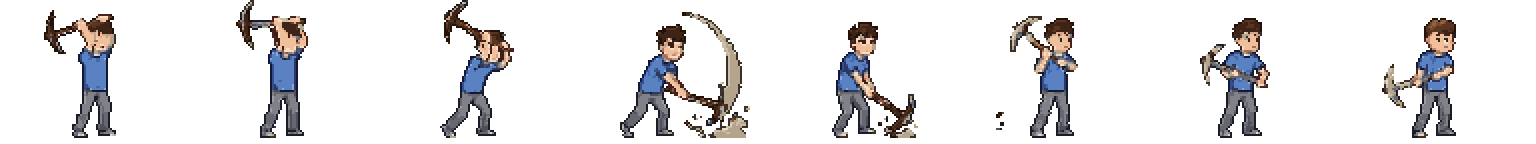
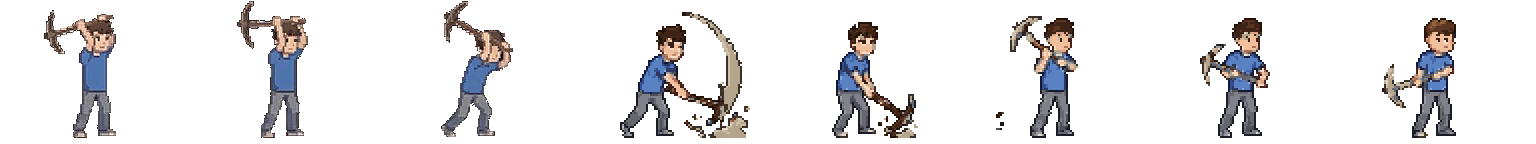
Замах кирки с руками над головой — авторские кадры без каймы: перерисовка теряла лицо
dig_pick и dig_pick_rusty, кадры 0–2: рука поверх лица на сетке 2×2 сливалась
с лицом. Кадры оставлены авторскими (defringe_frame), шейдер героя берёт для
них пиксель в один тексель (PIXEL_CELL_1_FRAMES, сверяет тест); ГДД и лист
было/стало обновлены.

Claude-Session: https://claude.ai/code/session_0136gV4z446Ram1BD5cWLTAs

diff --git a/tools/gen_hero_art.py b/tools/gen_hero_art.py
@@ -784,8 +784,11 @@ SHEETS = [
     ("fly_2", 204, 163, {}),
     ("fly_3", 152, 129, {}),
     ("fly_4", 260, 123, {}),
-    ("dig_pick", 192, 138, {}),
-    ("dig_pick_rusty", 192, 138, {}),
+    # Замах с руками над головой (кадры 0–2): рука поверх лица на сетке 2×2
+    # сливалась с лицом, голова пропадала — эти кадры авторские, без каймы.
+    # Шейдер героя знает их (PIXEL_CELL_1_FRAMES в character_view.gd).
+    ("dig_pick", 192, 138, {0: "keep", 1: "keep", 2: "keep"}),
+    ("dig_pick_rusty", 192, 138, {0: "keep", 1: "keep", 2: "keep"}),
     ("dig_shovel", 192, 138, {}),
     ("dig_drill_down", 144, 138, {}),
     ("dig_drill_side", 144, 138, {}),

diff --git a/docs/GDD.md b/docs/GDD.md
@@ -1053,7 +1053,7 @@ UI полностью исчезает → управление автомати
 - **Шейдер чёткости** `shaders/pixel_art.gdshader` на спрайте героя: внутри пикселя рисунка цвет берётся из его центра, смешение соседей — только на их границе шириной в экранный пиксель. Наклон, сжатие и дробные координаты остаются гладкими, а рисунок не мылится ни при 448 px, ни при любом нецелом масштабе телефона. `cell` = 2 у перерисованных листов (список `PIXEL_CELL_2` в `character_view.gd`, его сверяет тест), 1 — у авторских листов бурмобиля. Шейдер общий: годится любому спрайту с `ART_SCALE` 3 (монстры, дом, NPC) — `cell` = 1.
 - Лист «было/стало»: `docs/hero_art/before_after.png` (все позы в ряд: было; стало на тёмном; стало на земле шахты; в размере экрана 448) и `docs/hero_art/in_game.png` (скриншоты игры до и после). Обновить первый: `python3 tools/gen_hero_art.py --sheet docs/hero_art/before_after.png`.
 - Конвейер: новый авторский лист → `import_*.py` → `python3 tools/gen_hero_art.py --take <листы>`; кукла `gen_hero_anim.py` (прыжок, «ой», моргание) теперь читает и пишет `hero_cut/`, а в `art/character/` кадры попадают только через перерисовку.
-- Честно: это перерисовка скриптом поверх авторских поз (уровень «программист нарисовал аккуратно»), не работа художника. **Экспедиционная форма `boy_gear/` оставлена авторской**, только без светлой каймы (`defringe_frame`): жилет, ремень сумки и карманы на сетке 2×2 превращались в камуфляж. Вблизи слабее авторских, на экране игры читаются не хуже: джетпак `fly_3` (кожаный ранец с трубками — мешанина и в оригинале) и три кадра кирки с руками над головой (граница руки и лица тоньше авторской); оставлены перерисованными, чтобы в анимации копки не мигала кайма авторских кадров. Руки в прыжке и «ой» по-прежнему прямые — это поза куклы hero-anim, не рисунок.
+- Честно: это перерисовка скриптом поверх авторских поз (уровень «программист нарисовал аккуратно»), не работа художника. **Оставлены авторскими, только без светлой каймы** (`defringe_frame`), потому что перерисовка выходила хуже: экспедиционная форма `boy_gear/` (жилет, ремень сумки и карманы на сетке 2×2 превращались в камуфляж) и три кадра замаха кирки и ржавой кирки с руками над головой (рука поверх лица сливалась с лицом, голова пропадала); для этих кадров шейдер героя берёт пиксель в один тексель (`PIXEL_CELL_1_FRAMES`). Вблизи слабее авторского, на экране игры не хуже: джетпак `fly_3` (кожаный ранец с трубками — мешанина и в оригинале). Руки в прыжке и «ой» по-прежнему прямые — это поза куклы hero-anim, не рисунок.
 
 **Мутное в других зонах — не правил (что, где, почему, как чинить).**
 1. Дом снаружи и комнаты (`art/env/house_*`, комнаты; авторские JPEG 1024 px): растянуты до ~2,5 экранного пикселя на тексель — мягкие градиенты и JPEG-квадраты. Перерисовка художником или квантование в палитру + `pixel_art.gdshader`.
